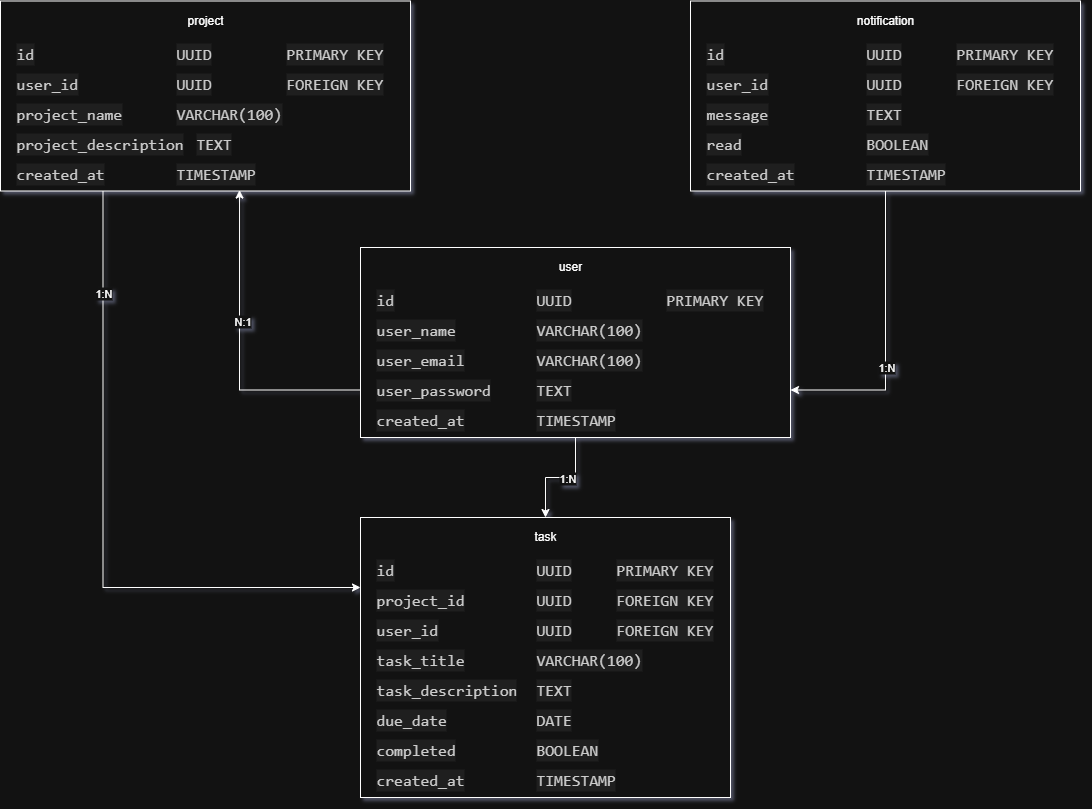
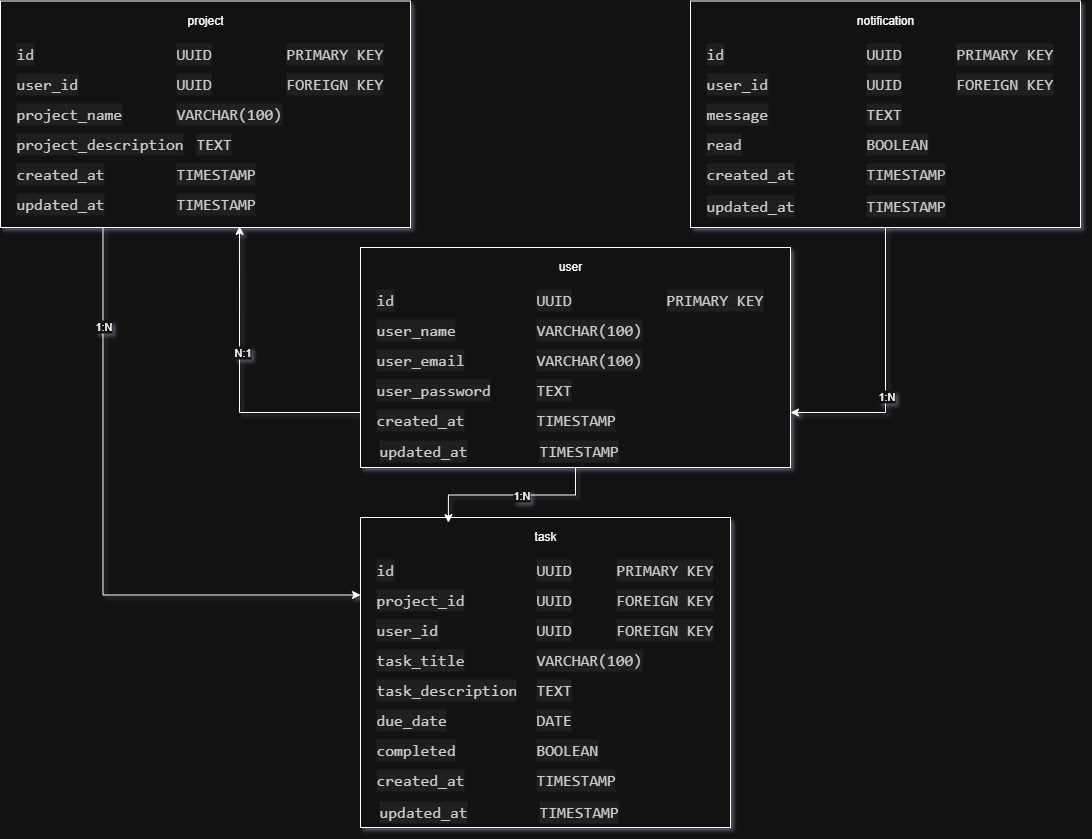
Adding Update_at

diff --git a/README.md b/README.md
@@ -16,6 +16,8 @@ user_password (TEXT): Hashed password. [Not Null]
 
 created_at (TIMESTAMP): Timestamp of user creation. [Default: current timestamp]
 
+updated_at (TIMESTAMP): Timestamp of user update. [Auto-updated on modification]
+
 ## Table: project
 
 Represents a project created by a user, grouping related tasks.
@@ -31,6 +33,8 @@ project_name (VARCHAR(100)): Name of the project. [Not Null]
 project_description (TEXT): Optional description of the project. [Not Null]
 
 created_at (TIMESTAMP): Timestamp of project creation. [Default: current timestamp]
+
+updated_at (TIMESTAMP): Timestamp of project update. [Auto-updated on modification]
 
 ## Table: task
 
@@ -54,6 +58,8 @@ completed (BOOLEAN): Completion status. [Default: FALSE]
 
 created_at (TIMESTAMP): Timestamp of task creation. [Default: current timestamp]
 
+updated_at (TIMESTAMP): Timestamp of task update. [Auto-updated on modification]
+
 ## Table: notification
 
 Stores system-generated messages for users (e.g., reminders, alerts).
@@ -69,3 +75,5 @@ message (TEXT): Notification content. [Not Null]
 read (BOOLEAN): Read status. [Default: FALSE]
 
 created_at (TIMESTAMP): Timestamp of notification creation. [Default: current timestamp]
+
+updated_at (TIMESTAMP): Timestamp of notification update. [Auto-updated on modification]